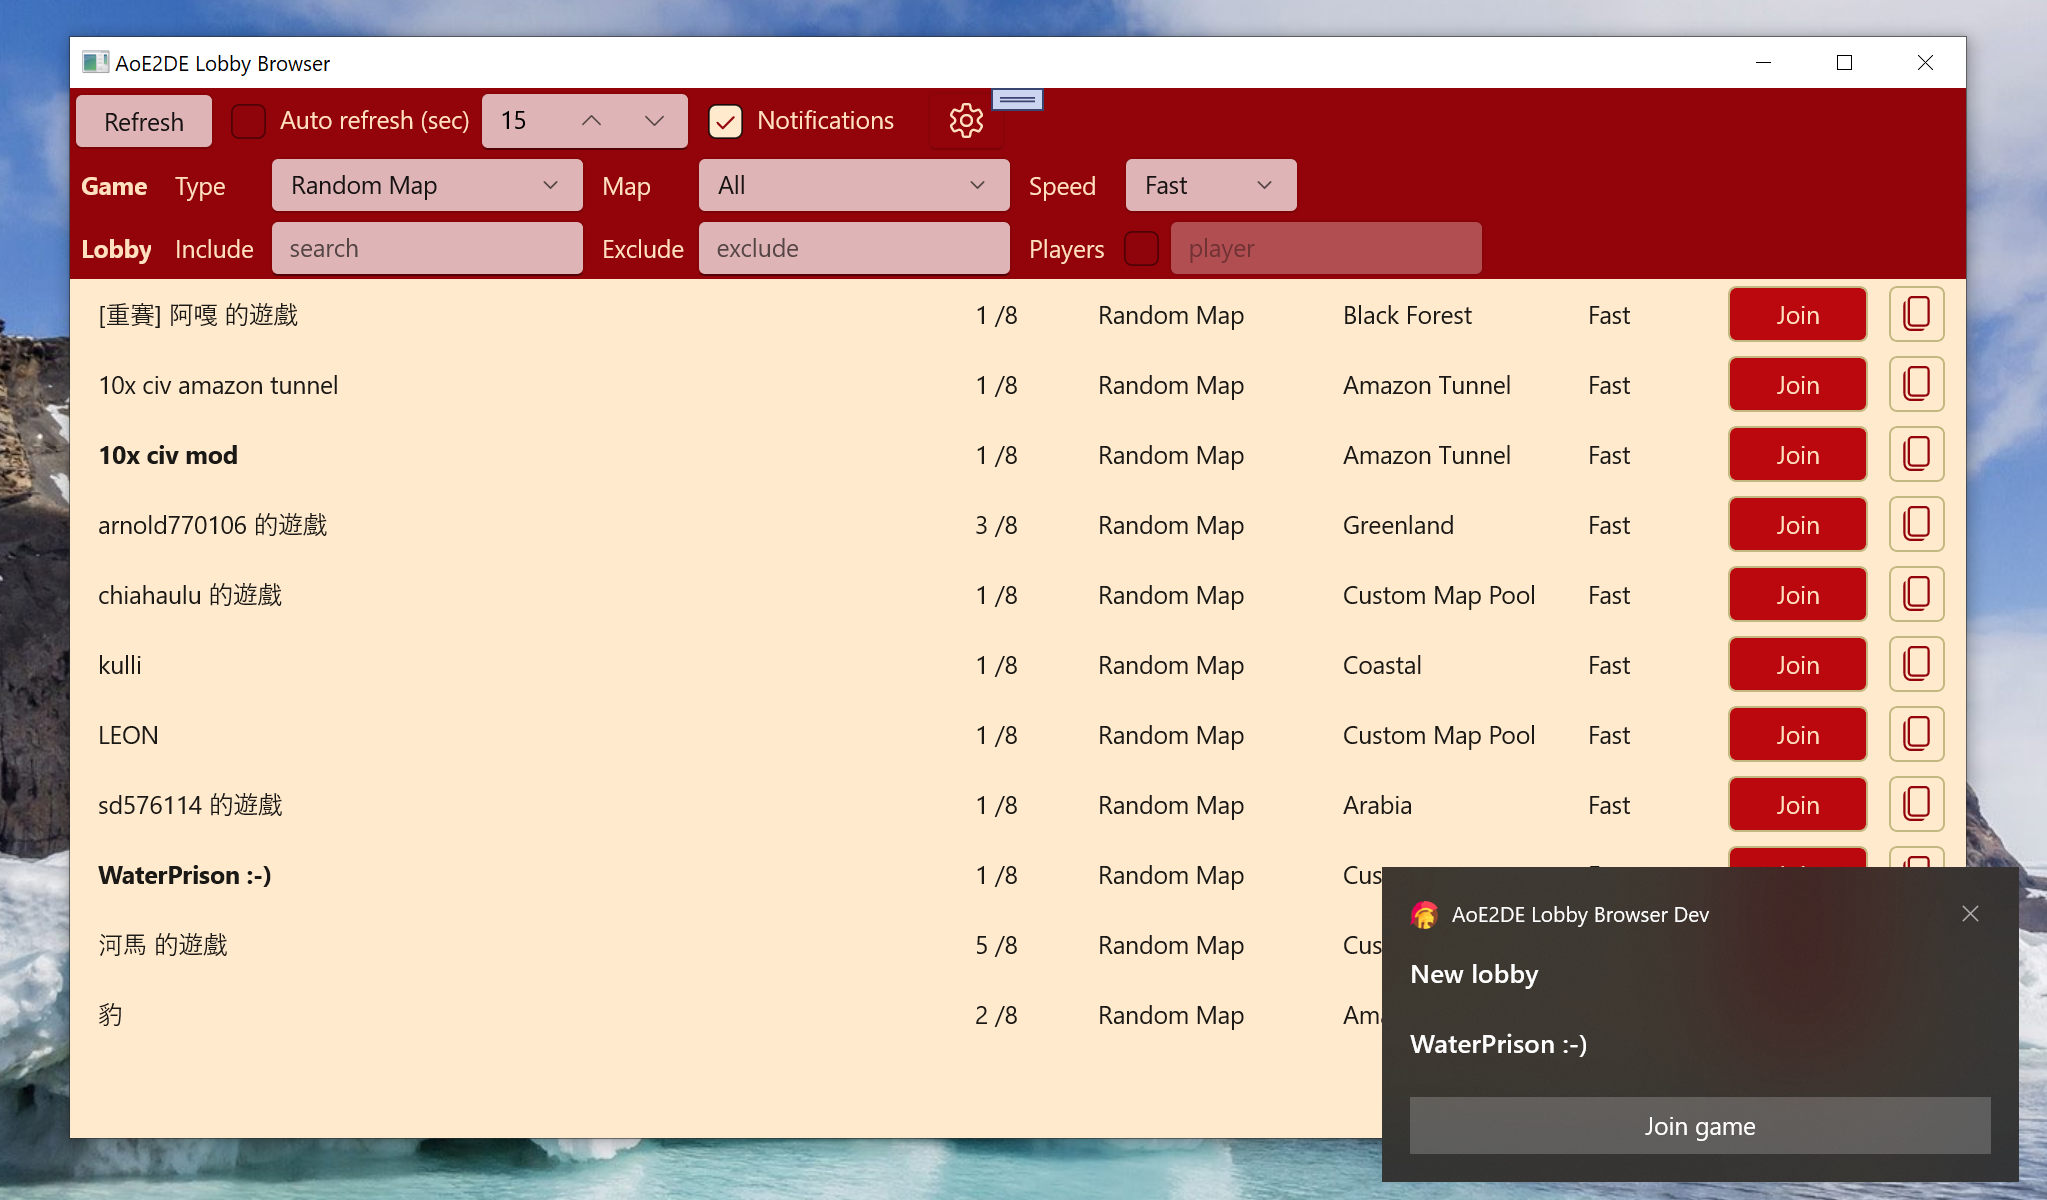
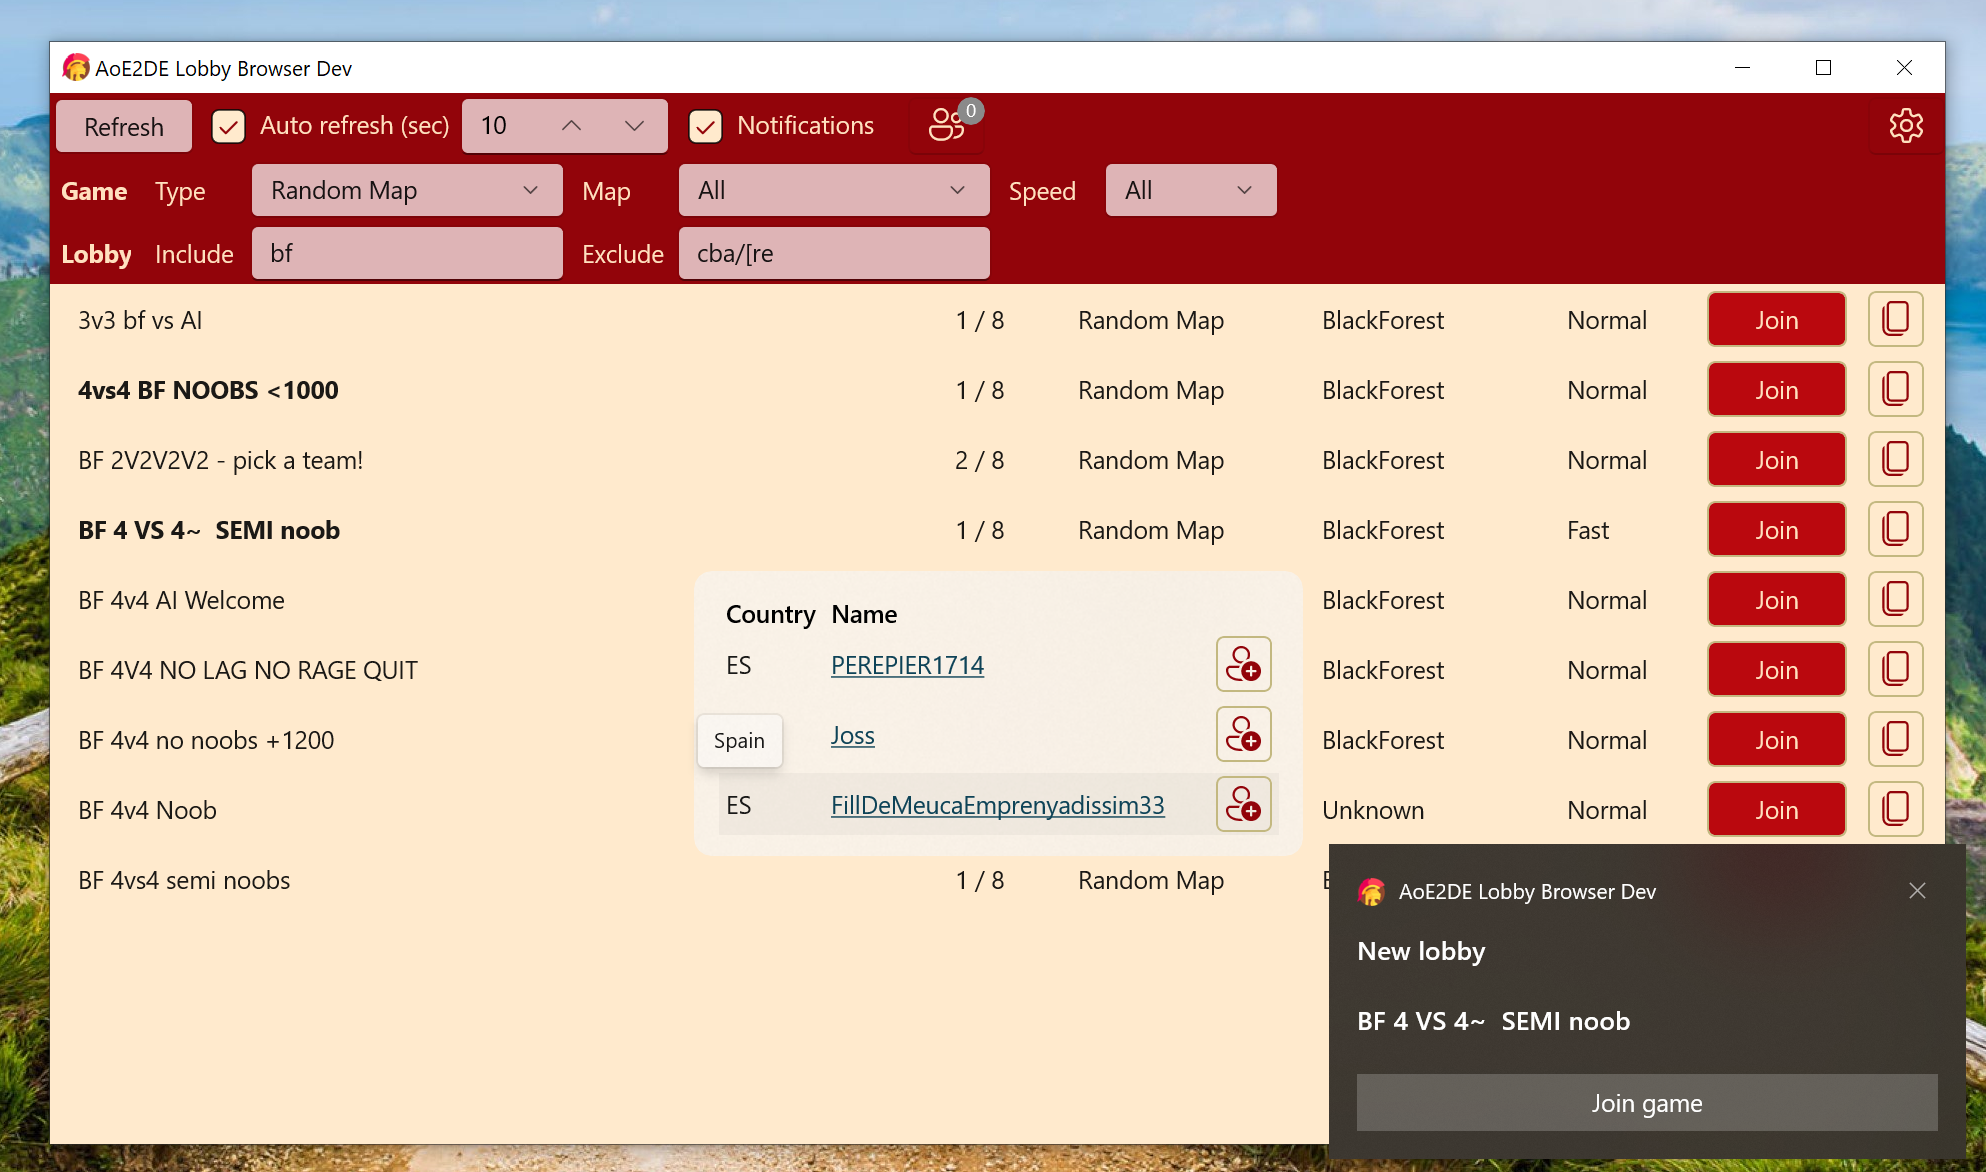
Update screenshots

diff --git a/README.md b/README.md
@@ -6,17 +6,17 @@ alt='English badge'/></a>
 
 Lobby browser for Age of Empires II DE
 - Filter games by lobby name, game type, map type, speed
-- Filter lobbies by player name or Steam id
 - Show notifications for new games
 - Join game directy from app or notification
 - List players in lobby
+- Add players to your friends list. See what lobby they are waiting in and quickly join the same game
 - Copy link to game
 - Auto refresh
 
-![alt text](https://github.com/tmk907/AoE2DELobbyBrowser/blob/master/files/screenshots/browser-with-notification.png "Browser")
-![alt text](https://github.com/tmk907/AoE2DELobbyBrowser/blob/master/files/screenshots/list-players-in-lobby.png "Players list")
-![alt text](https://github.com/tmk907/AoE2DELobbyBrowser/blob/master/files/screenshots/filter-by-players.png "Filter by player")
-
+![alt text](https://github.com/tmk907/AoE2DELobbyBrowser/blob/master/files/screenshots/browser.png "Browser")
+![alt text](https://github.com/tmk907/AoE2DELobbyBrowser/blob/master/files/screenshots/browser-with-notification.png "Players list")
+![alt text](https://github.com/tmk907/AoE2DELobbyBrowser/blob/master/files/screenshots/friends.png "Friends")
+![alt text](https://github.com/tmk907/AoE2DELobbyBrowser/blob/master/files/screenshots/settings.png "Settings")
 
 Age of Empires II: Definitive Edition © Microsoft Corporation. AoE2DE Lobby Browser was created under Microsoft's &quot;[Game Content Usage Rules](https://www.xbox.com/en-US/developers/rules)&quot; using assets from Age of Empires II: Definitive Edition, and it is not endorsed by or affiliated with Microsoft.
 
